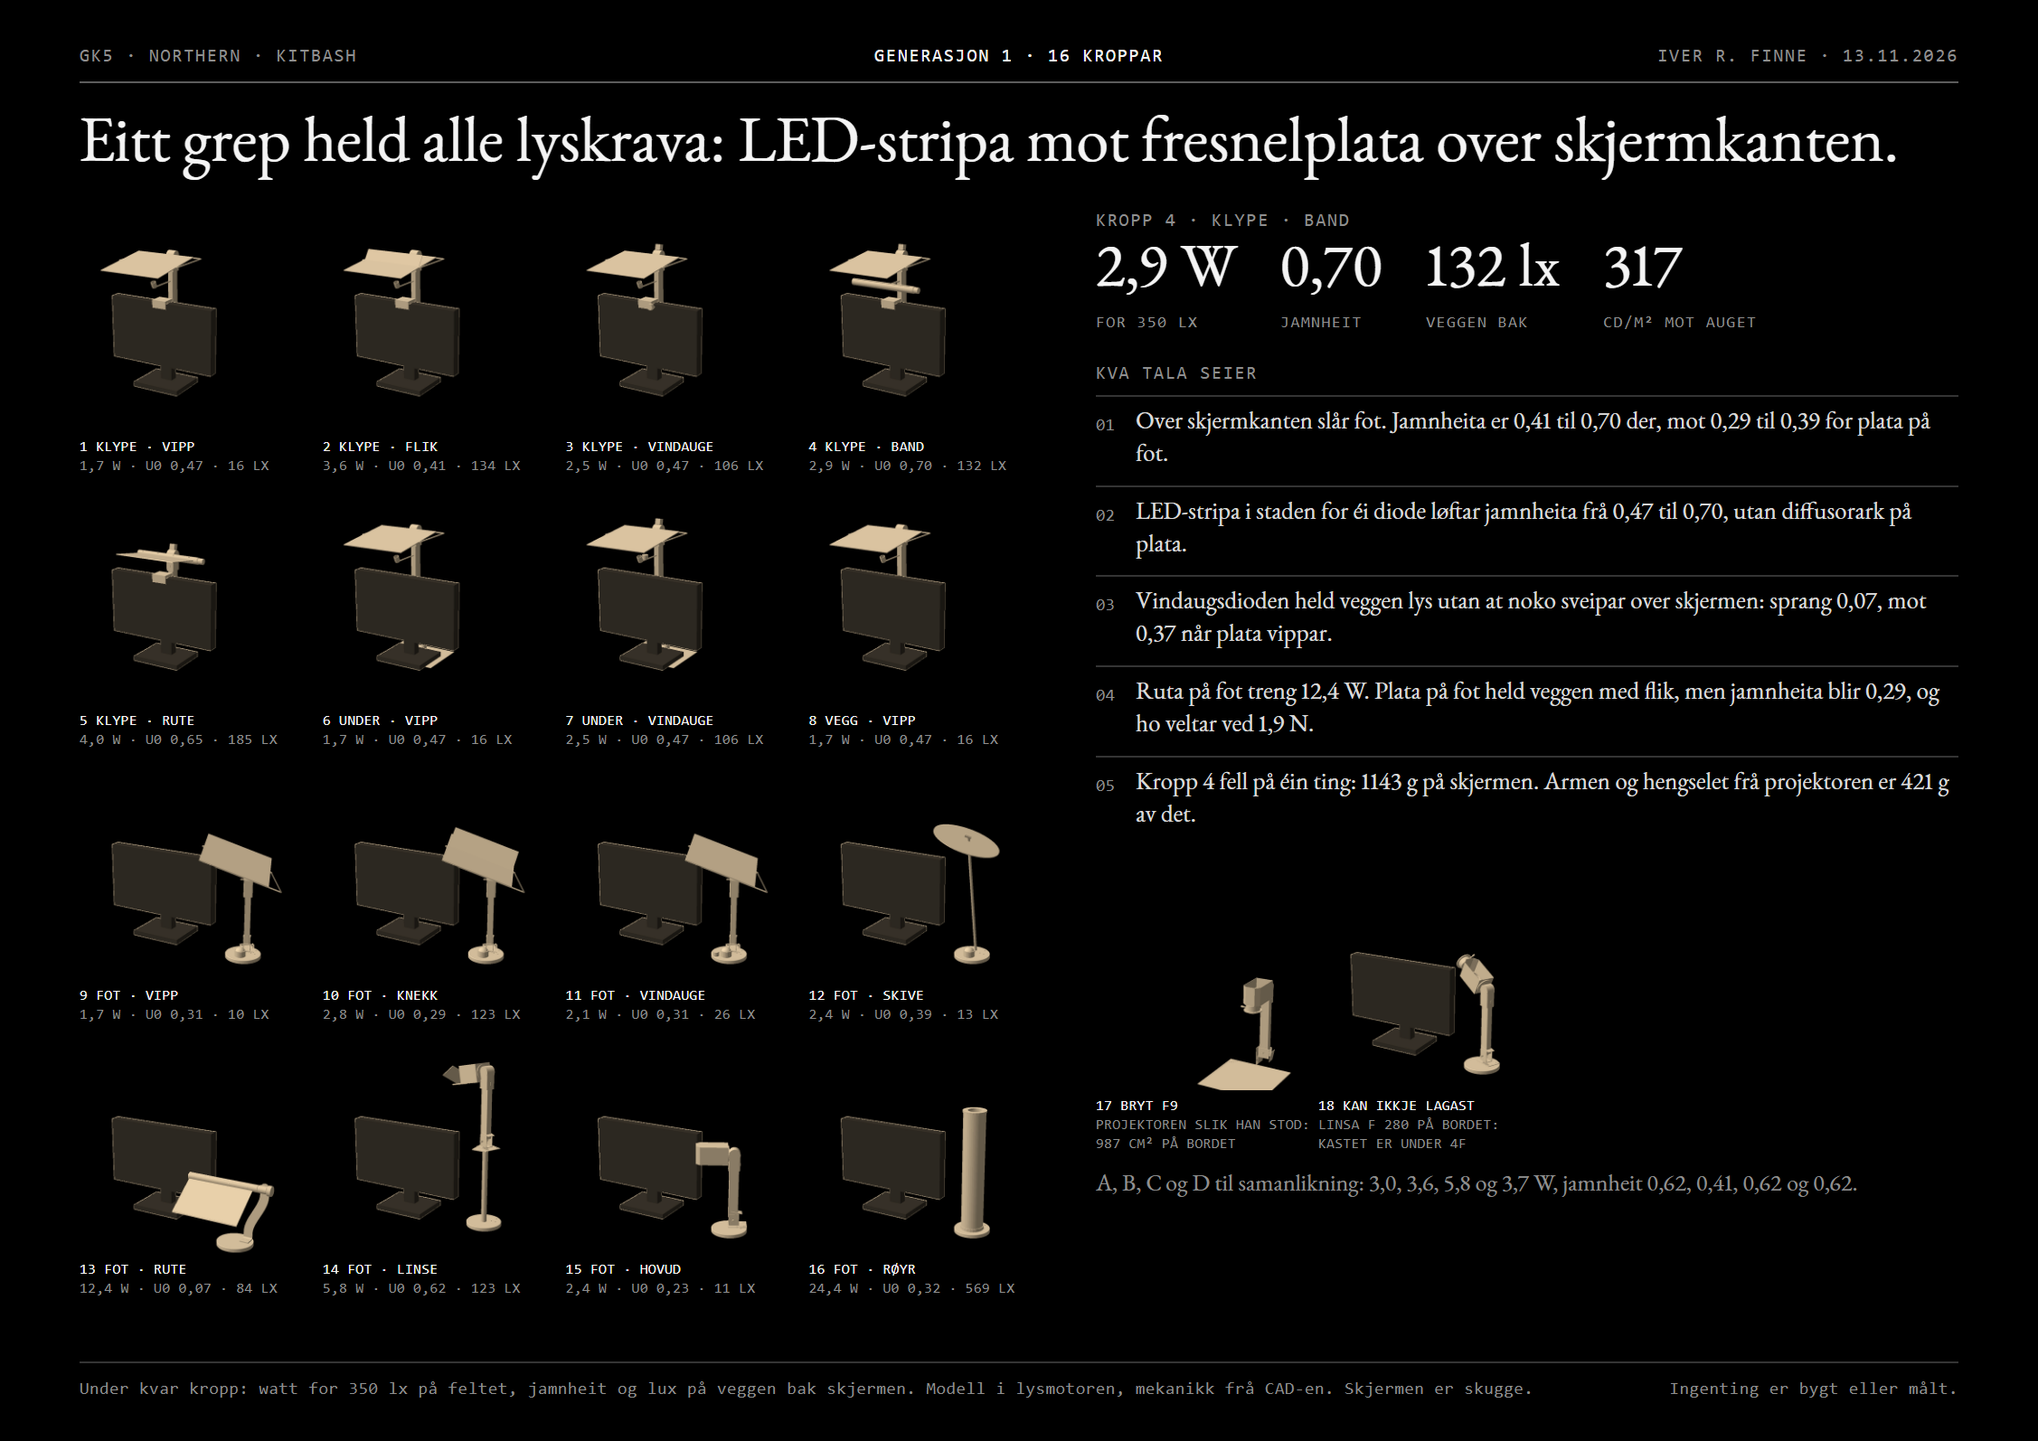
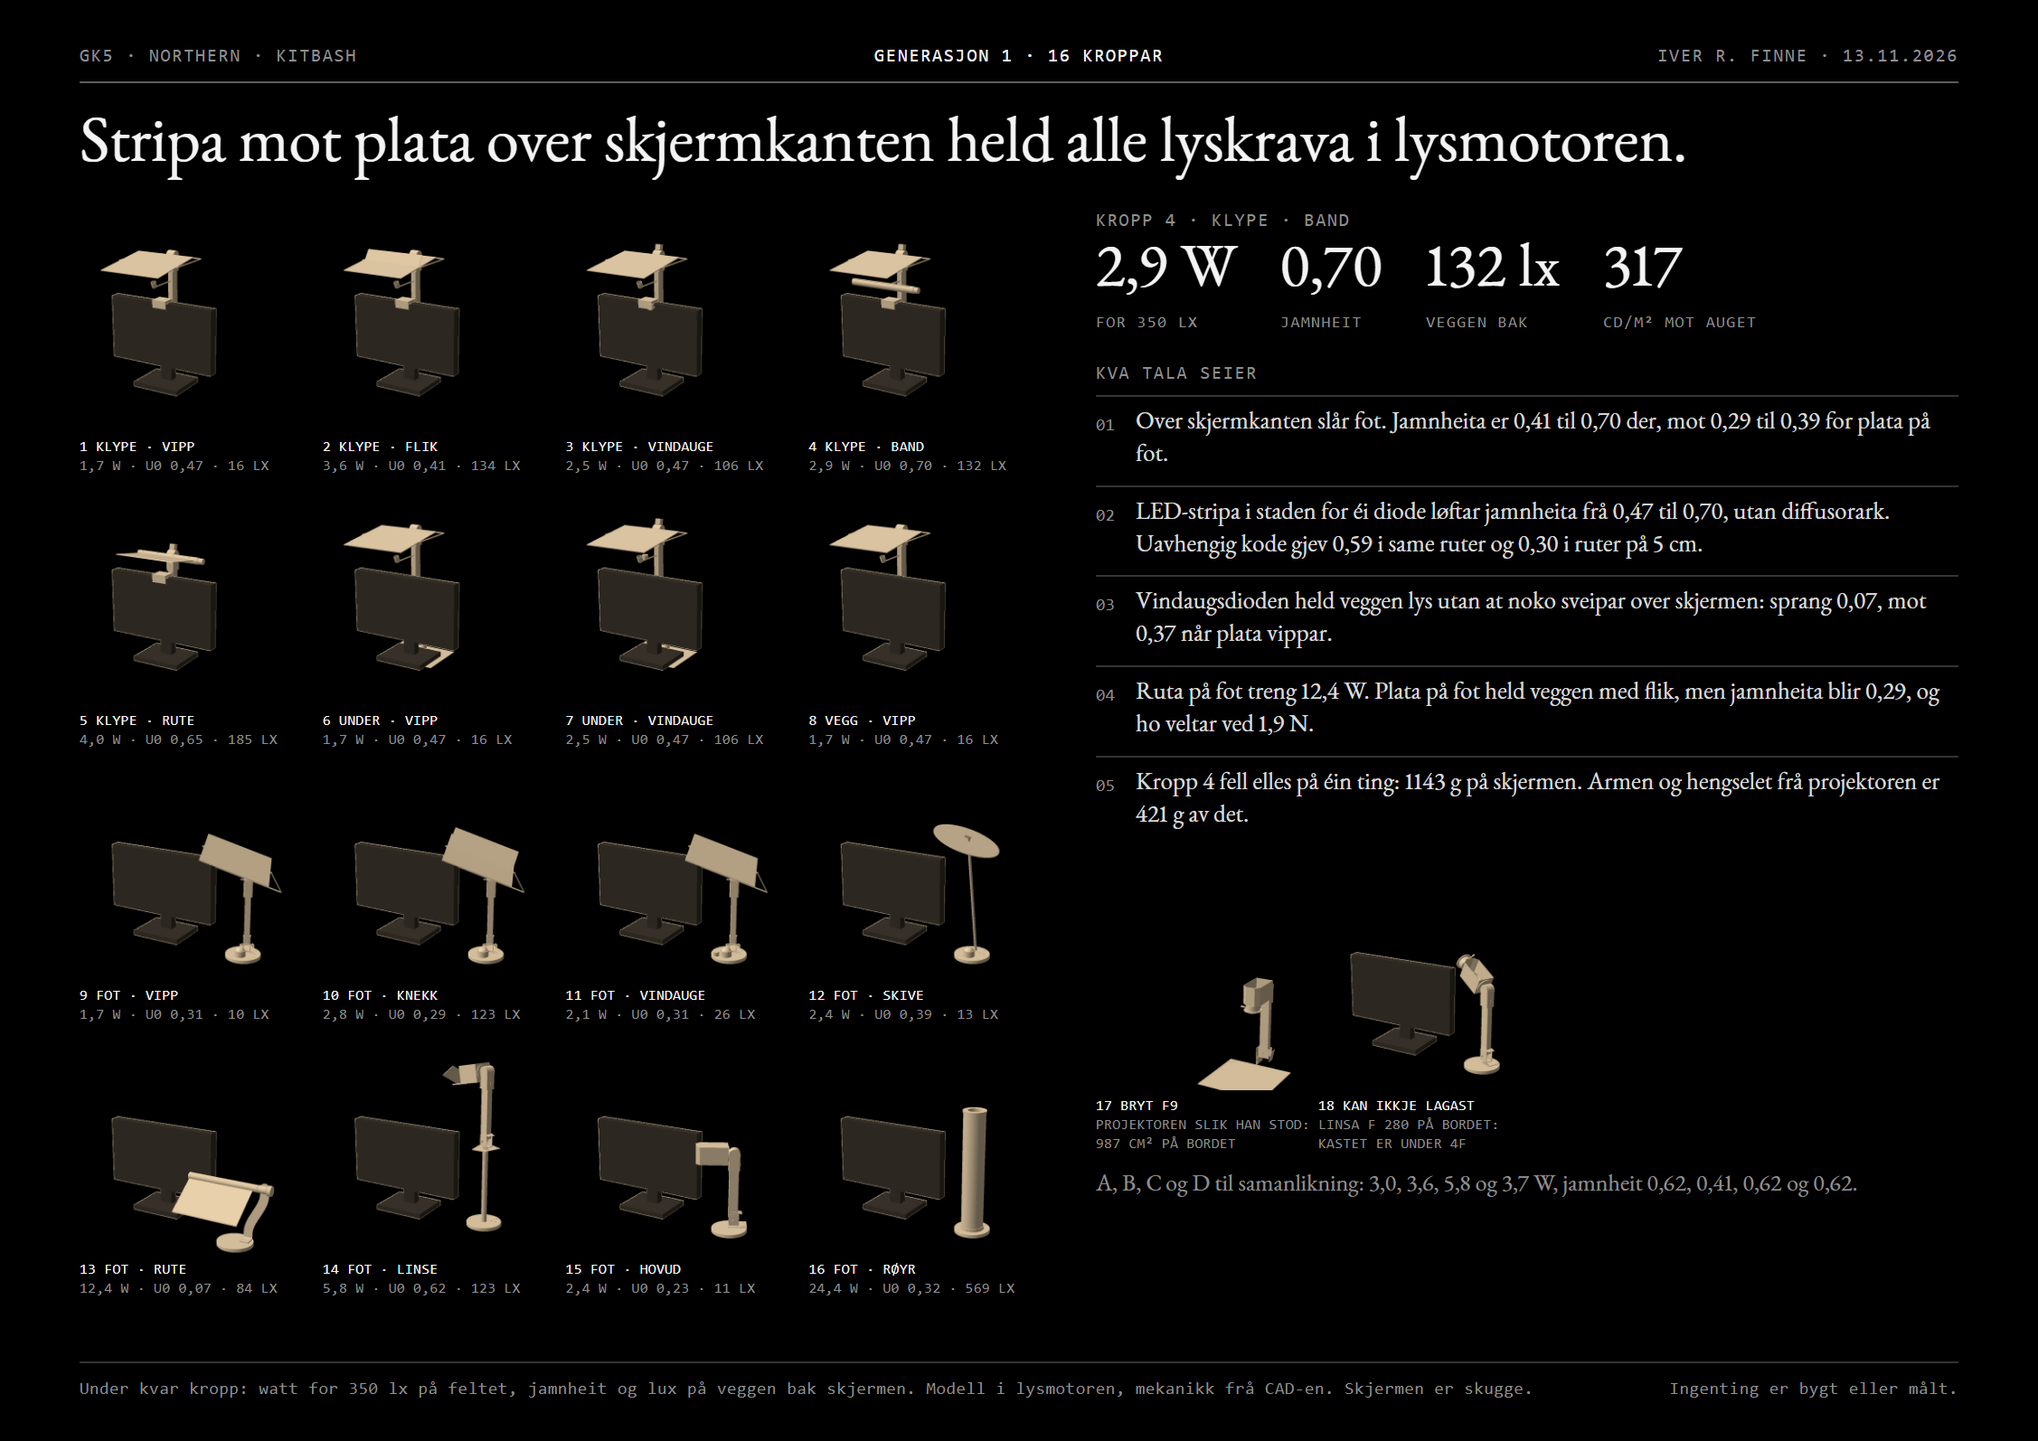
Kitbash: etterprøving av bandet med uavhengig kode, og presisering i ark, logg og val
Uavhengig strålesporing gjev jamnheit 0,59 i ruter på 10 cm (lysmotoren 0,70) og 0,30 i ruter på 5 cm.
Sikte 3 cm nærare brukaren gjev 0,61 og 0,48. Stripa på fot blir ei line.

diff --git a/modell/byggjesett/kitbash/ark-val.html b/modell/byggjesett/kitbash/ark-val.html
@@ -1,0 +1,65 @@
+<!doctype html>
+<html lang="nn">
+<head>
+<meta charset="utf-8">
+<title>Kitbash · val</title>
+<link rel="stylesheet" href="../../../leveransar/01_fase1_v2/felles.css">
+<style>
+  .studie img { display: block; width: 1039px; height: auto; }
+  .studie figcaption { display: flex; justify-content: space-between; }
+  .tre { display: grid; grid-template-columns: repeat(3, minmax(0, 1fr)); column-gap: 24px; margin-top: 12px; }
+  .val figure img { width: 120px; height: 120px; display: block; }
+  .val { display: grid; grid-template-columns: 120px minmax(0, 1fr); column-gap: 12px; align-items: start; }
+  .val figure { grid-row: span 4; }
+  .val .tal { font-size: 11.5px; color: var(--graa); margin: 0 0 4px; }
+  .val .liten { font-size: 12.5px; line-height: 1.3; margin: 0 0 4px; }
+  .val .m2 { font: 400 8.5px/1.35 var(--mono); letter-spacing: 0.04em; text-transform: uppercase; color: var(--graa); margin: 0; }
+</style>
+</head>
+<body>
+<div class="side">
+  <header class="topp">
+    <span>GK5 · Northern · kitbash</span>
+    <span>Valet (a), (b), (c)</span>
+    <span>Iver R. Finne · 13.11.2026</span>
+  </header>
+
+  <h1 class="tittel">Lyset er funne. Valet er kven som ber plata: skjermen, bordet eller foten.</h1>
+
+  <main class="innhald" style="display: block;">
+    <figure class="studie">
+      <img src="studie-over-band-vindauge-q30.png" alt="">
+      <figcaption><span><b>Stemning</b> · 1,25 W · 2200 K · vindauget på veggen 143 lx</span><span><b>Arbeid</b> · 2,9 W · 3000 K · feltet 350 lx · veggen bak 132 lx</span></figcaption>
+    </figure>
+    <div class="tre">
+      <div class="val">
+        <figure><img src="flis/04.png" alt=""></figure>
+        <p class="stor" style="margin: 6px 0 4px;">(a) Klype · band</p>
+        <p class="tal"><em>293 lm · 2,9 W · 3000 K · 350 lx · U0 0,70</em></p>
+        <p class="liten">På skjermkanten. Held alle lyskrava, og bordet er fritt.</p>
+        <p class="m2">1143 g på skjermen · knotten 65 cm unna</p>
+      </div>
+      <div class="val">
+        <figure><img src="flis/19.png" alt=""></figure>
+        <p class="stor" style="margin: 6px 0 4px;">(b) Under · band</p>
+        <p class="tal"><em>293 lm · 2,9 W · 3000 K · 350 lx · U0 0,70</em></p>
+        <p class="liten">Same lys. Står sjølv på ei stålplate under skjermfoten.</p>
+        <p class="m2">2260 g · toler 7,0 N dytt · 690 cm² under skjermen</p>
+      </div>
+      <div class="val">
+        <figure><img src="flis/10.png" alt=""></figure>
+        <p class="stor" style="margin: 6px 0 4px;">(c) Fot · knekk</p>
+        <p class="tal"><em>283 lm · 2,8 W · 3000 K · 350 lx · U0 0,29</em></p>
+        <p class="liten">Ruta på fot med spegelrute. Held veggen, men feltet blir ujamt.</p>
+        <p class="m2">1293 g · 196 cm² · veltar ved 1,9 N · auget 660 cd/m²</p>
+      </div>
+    </div>
+  </main>
+
+  <footer class="botn">
+    <span>Bileta er lysmotoren sitt rom for (a) og (b), same kamera og eksponering. Tala er modell, skalerte til 350 lx på feltet.</span>
+    <span>Designaren vel.</span>
+  </footer>
+</div>
+</body>
+</html>

diff --git a/modell/byggjesett/kitbash/ark-brett.html b/modell/byggjesett/kitbash/ark-brett.html
@@ -26,7 +26,7 @@
     <span>Iver R. Finne · 13.11.2026</span>
   </header>
 
-  <h1 class="tittel">Eitt grep held alle lyskrava: LED-stripa mot fresnelplata over skjermkanten.</h1>
+  <h1 class="tittel">Stripa mot plata over skjermkanten held alle lyskrava i lysmotoren.</h1>
 
   <main class="innhald" style="display: block;">
     <div class="to">
@@ -59,10 +59,10 @@
         </div>
         <p class="etikett">Kva tala seier</p>
         <div class="punkt"><span class="nr">01</span><p>Over skjermkanten slår fot. Jamnheita er 0,41 til 0,70 der, mot 0,29 til 0,39 for plata på fot.</p></div>
-        <div class="punkt"><span class="nr">02</span><p>LED-stripa i staden for éi diode løftar jamnheita frå 0,47 til 0,70, utan diffusorark på plata.</p></div>
+        <div class="punkt"><span class="nr">02</span><p>LED-stripa i staden for éi diode løftar jamnheita frå 0,47 til 0,70, utan diffusorark. Uavhengig kode gjev 0,59 i same ruter og 0,30 i ruter på 5 cm.</p></div>
         <div class="punkt"><span class="nr">03</span><p>Vindaugsdioden held veggen lys utan at noko sveipar over skjermen: sprang 0,07, mot 0,37 når plata vippar.</p></div>
         <div class="punkt"><span class="nr">04</span><p>Ruta på fot treng 12,4 W. Plata på fot held veggen med flik, men jamnheita blir 0,29, og ho veltar ved 1,9 N.</p></div>
-        <div class="punkt"><span class="nr">05</span><p>Kropp 4 fell på éin ting: 1143 g på skjermen. Armen og hengselet frå projektoren er 421 g av det.</p></div>
+        <div class="punkt"><span class="nr">05</span><p>Kropp 4 fell elles på éin ting: 1143 g på skjermen. Armen og hengselet frå projektoren er 421 g av det.</p></div>
         <figure class="kontroll">
           <img src="velt_umogleg.png" alt="">
           <figcaption><span><b>17 Bryt F9</b><br>projektoren slik han stod:<br>987 cm² på bordet</span><span><b>18 Kan ikkje lagast</b><br>linsa f 280 på bordet:<br>kastet er under 4f</span></figcaption>

diff --git a/modell/byggjesett/kitbash/ark.py b/modell/byggjesett/kitbash/ark.py
@@ -63,7 +63,7 @@ def ark_brett(R, L):
 <div class="side">
 {TOPP % 'Generasjon 1 · 16 kroppar'}
 
-  <h1 class="tittel">Eitt grep held alle lyskrava: LED-stripa mot fresnelplata over skjermkanten.</h1>
+  <h1 class="tittel">Stripa mot plata over skjermkanten held alle lyskrava i lysmotoren.</h1>
 
   <main class="innhald" style="display: block;">
     <div class="to">
@@ -81,10 +81,10 @@ def ark_brett(R, L):
         </div>
         <p class="etikett">Kva tala seier</p>
         <div class="punkt"><span class="nr">01</span><p>Over skjermkanten slår fot. Jamnheita er 0,41 til {k(r4['U0'], 2)} der, mot 0,29 til 0,39 for plata på fot.</p></div>
-        <div class="punkt"><span class="nr">02</span><p>LED-stripa i staden for éi diode løftar jamnheita frå {k(d1['jamnheit'], 2)} til {k(r4['U0'], 2)}, utan diffusorark på plata.</p></div>
+        <div class="punkt"><span class="nr">02</span><p>LED-stripa i staden for éi diode løftar jamnheita frå {k(d1['jamnheit'], 2)} til {k(r4['U0'], 2)}, utan diffusorark. Uavhengig kode gjev 0,59 i same ruter og 0,30 i ruter på 5 cm.</p></div>
         <div class="punkt"><span class="nr">03</span><p>Vindaugsdioden held veggen lys utan at noko sveipar over skjermen: sprang {k(r4['sprang'], 2)}, mot {k(v['sprang'], 2)} når plata vippar.</p></div>
         <div class="punkt"><span class="nr">04</span><p>Ruta på fot treng {k(R[12]['W350'], 1)} W. Plata på fot held veggen med flik, men jamnheita blir {k(R[9]['U0'], 2)}, og ho veltar ved {k(R[9]['dytt_N'], 1)} N.</p></div>
-        <div class="punkt"><span class="nr">05</span><p>Kropp 4 fell på éin ting: {k(r4['masse_g'], 0)} g på skjermen. Armen og hengselet frå projektoren er 421 g av det.</p></div>
+        <div class="punkt"><span class="nr">05</span><p>Kropp 4 fell elles på éin ting: {k(r4['masse_g'], 0)} g på skjermen. Armen og hengselet frå projektoren er 421 g av det.</p></div>
         <figure class="kontroll">
           <img src="velt_umogleg.png" alt="">
           <figcaption><span><b>17 Bryt F9</b><br>projektoren slik han stod:<br>987 cm² på bordet</span><span><b>18 Kan ikkje lagast</b><br>linsa f 280 på bordet:<br>kastet er under 4f</span></figcaption>

diff --git a/modell/byggjesett/kitbash/logg.md b/modell/byggjesett/kitbash/logg.md
@@ -1,6 +1,6 @@
 # Kitbash generasjon 1 · logg
 
-Dato: 13.11.2026, kl. 20.10 til 21.15. Motoren er montasje: kvar kropp er sett saman av delar som alt finst som CAD. Koden er `kitbash.py`, `lys.py` og `samle.py`. Tala ligg i `tal.json`, `tal.csv` og `tal.md`, bileta i `brett.png`, `brett-merkt.png` og `velt_umogleg.png`. Ingenting er målt. Måla på delane er anslått frå foto, massane er rekna frå volum, og lyset er modell.
+Dato: 13.11.2026, kl. 20.10 til 21.20. Motoren er montasje: kvar kropp er sett saman av delar som alt finst som CAD. Koden er `kitbash.py`, `lys.py` og `samle.py`. Tala ligg i `tal.json`, `tal.csv` og `tal.md`, bileta i `brett.png`, `brett-merkt.png` og `velt_umogleg.png`. Ingenting er målt. Måla på delane er anslått frå foto, massane er rekna frå volum, og lyset er modell.
 
 ## Kvifor ein ny motor
 
@@ -34,11 +34,31 @@ Fire støtter × lysorgan. Rad 1 og 2 har armen ståande bak skjermen: klype på
 - **Lyset mot tabellen for A, B, C og D:** B (over-flik) 3,6 W og jamnheit 0,41, C (fot-linse) 5,8 W og 0,62, A 3,0 W og 0,62, D 3,7 W og 0,62. Det er same tal som i `konsept/tre/00-tre-konsept.md` og `tal-D.json`.
 - **Bandet med tre kjelder i staden for fem** gjev jamnheit 0,65 mot 0,69. Resultatet heng altså ikkje på kor mange punkt stripa er delt i.
 
+## Etterprøving med uavhengig kode
+
+`etterproving.py` sporar strålar med numpy utan lysmotoren: ei lambertsk line under ein ideell fresnelspegel, berre direkte lys på bordet, same plassar. Tala står i `etterproving.json`.
+
+| | Jamnheit, ruter 10 cm | Ruter 5 cm | Lux per lumen frå stripa | Lysmotoren |
+| --- | --- | --- | --- | --- |
+| Stripe 24 cm, rein plate | 0,59 | 0,30 | 2,0 | 0,69 (bandet åleine), 0,70 med vindauge |
+| Stripe 12 cm | 0,15 | 0,01 | 2,7 | 0,34 |
+| Éi diode, rein plate | 0,01 | 0,00 | 2,9 | |
+| Éi diode, ark 12° | 0,42 | 0,29 | 2,2 | 0,47 |
+| Stripe 30 cm | 0,68 | 0,29 | 1,6 | |
+| Stripa på fot, 42 cm under plata | 0,00 | 0,00 | 1,8 | 0,02 |
+
+- **Hovudfunnet held, talet flyttar seg.** Stripa mot rein plate er jamnare enn dioden med ark i begge kodane. Men jamnheita er 0,59 her mot 0,70 i lysmotoren, altså på referansen 0,6 og ikkje trygt over.
+- **Rutenettet avgjer.** I ruter på 5 cm fell jamnheita til 0,30. Lyskartet viser kvifor: dei fremste 5 cm av feltet, nærast brukaren, får ein firedel av midten. Formsøket fann det same for D (0,62 grovt, 0,51 fint).
+- **Sikte 3 cm nærare brukaren** (y 0,22 i staden for 0,25) gjev 0,61 og 0,48. Det er første justering for lampa som blir bygd. Ho er ikkje køyrd i lysmotoren.
+- **Dioden med rein plate er ikkje ein flekk.** Ho gjev eit felt på om lag 0,6 m med lys rand og mørke kantar. Jamnheita 0,01 kjem av kantrutene.
+- Lux per lumen: 2,0 her mot 1,7 i lysmotoren. Lysmotoren har brønn og sprut i kjelda, og denne koden har ingen tap utanom spegelen (0,85).
+
 ## Mønster i tala
 
 - **Over skjermkanten slår fot.** Plata over skjermkanten gjev jamnheit 0,41 til 0,70. Plata på fot gjev 0,29 til 0,39, fordi lyset kjem skrått inn frå sida.
 - **Stripa er jamnheita.** Éi diode mot plata krev diffusorark (12°) og gjev 0,47. LED-stripa langs skjermkanten gjev 0,69 mot rein plate, og luminansen mot auget fell frå 227 til 70 cd/m², fordi arket er borte. Dette er første fresnelgrepet over referansen 0,6. Fresnel-familien stoppa på 0,56 og konkluderte med at jamnheit og luminans er same knapp. Stripa løyser dei frå kvarandre.
 - **Å dele er betre enn å flytte.** Når plata vippar frå veggen til feltet, er spranget 0,37 til 0,42, og veggen bak skjermen får 14 til 16 lx i arbeid. Med plata fast og vindaugsdioden til veggen er spranget 0,07 til 0,11, og veggen får 106 til 132 lx.
+- **Stripa må liggje innanfor brennvidda.** På skjermkanten ligg ho 12 cm under plata (f = 18,7 cm), og kvart punkt gjev eit vidt felt. På fot, 42 cm under, avbildar plata stripa som ei line: jamnheit 0,02. Stripa på 12 cm i staden for 24 gjev 0,34.
 - **Ruta på fot er stemning.** Kropp 13 treng 12,4 W for 350 lx og har jamnheit 0,07. Same svar som formsøket.
 - **Ruta over skjermkanten (D) lyser på skjermen.** 163 lx på skjermflata, 0,47 av feltet.
 - **Hovudet og røyret er det busette.** Hovudet som skjerm blendar det låge auget (5211 cd/m²) og er ein dimmar. Røyret av prismearket er ei rein stemningslampe.
@@ -70,3 +90,5 @@ Fire støtter × lysorgan. Rad 1 og 2 har armen ståande bak skjermen: klype på
 - 20.40 lys: dei elleve raske grepa, 1 til 11 s kvar.
 - 20.42 til 20.50 lys: over-band-vindauge 151 s, over-band-vindauge-q30 150 s, over-vindauge-q30 3 s, over-band-3 79 s.
 - 20.47 brett (104 s): kropp 4 med vindaugsdiode og knott.
+- 20.50 til 20.57 lys: over-band-kort 260 s, fot-band 191 s.
+- 21.00 etterprøving (40 s): sju oppsett. 21.02 sikte, stripelengd og ark (16 oppsett, 25 s).

diff --git a/modell/byggjesett/kitbash/val.md b/modell/byggjesett/kitbash/val.md
@@ -4,7 +4,9 @@ Dato: 13.11.2026. Tala er modell (lysmotoren, skalert til 350 lx på feltet) og 
 
 ## Svaret frå søket
 
-Lyset bur over skjermkanten. LED-stripa på skjermkanten lyser opp i den reine fresnelplata, som legg eit band av lys over feltet. Ei diode bak ei maske teiknar vindauget på veggen, og knotten flyttar watten mellom dei. Av seksten kroppar er dette den einaste som held alle lyskrava i modellen. A, B, C og D gjer det heller ikkje.
+Lyset bur over skjermkanten. LED-stripa på skjermkanten lyser opp i den reine fresnelplata, som legg eit band av lys over feltet. Ei diode bak ei maske teiknar vindauget på veggen, og knotten flyttar watten mellom dei. Av seksten kroppar er dette den einaste som held alle lyskrava i lysmotoren. A, B, C og D gjer det heller ikkje.
+
+Etterprøvinga med uavhengig kode (`etterproving.py`) held funnet, men ikkje talet: jamnheita er 0,59 i ruter på 10 cm, mot 0,70 i lysmotoren, og 0,30 i ruter på 5 cm, fordi dei fremste 5 cm av feltet er svake. Med plata sikta 3 cm nærare brukaren blir det 0,61 og 0,48. Les 0,70 som «på referansen», ikkje som trygt over.
 
 Valet som står att, er kven som ber plata og stripa: skjermen, bordet eller foten.
 
@@ -46,11 +48,12 @@ Prøv bandet før noko blir bygt. Det er éin dag med papp, og det avgjer om (a)
 
 Bygg B Over-modellen (plata i ei pappramme 20 cm over skjermkanten og 9 cm framfor skjermplanet, sjå `konsept/tre/00-tre-konsept.md`). Byt telefonlykta med ei LED-stripe i ei renne av svart papp på skjermkanten, 12 cm under plata. Ingen diffusorark. Stripa er den same som står på handlelista til ruta på fot (COB, 5 V). Mål lux i 6 × 4 ruter på feltet.
 
-1. Stripa 24 cm, rein plate: lågaste rute delt på snittet over 0,6 (modell 0,69).
-2. Same stripe dekt til 12 cm: under 0,4 (modell 0,34).
-3. Stripa flytta til 42 cm under plata: ei lys line på bordet, under 0,1 (modell 0,02).
+1. Stripa 24 cm, rein plate: lågaste rute delt på snittet mellom 0,55 og 0,70 i ruter på 10 cm (lysmotoren 0,69, uavhengig kode 0,59). Den svakaste ruta ligg i framkanten av feltet.
+2. Same stripe dekt til 12 cm: under 0,4 (lysmotoren 0,34, uavhengig kode 0,15).
+3. Stripa flytta til 42 cm under plata: ei lys line på bordet, under 0,1 (begge kodane 0,00 til 0,02).
 4. Frå stolen, med auget 25 til 60 cm over bordet, er plata mørk: ingen lys flate i henne.
-5. Midt på feltet om lag 1,2 lx per lumen frå stripa (350 lx av 290 lm).
+5. Snittet på feltet er 1,7 til 2,0 lx per lumen frå stripa.
+6. Vippar du plata så midten av lyset flyttar seg 3 cm mot deg, blir framkanten jamnare (uavhengig kode: 0,61, og 0,48 i ruter på 5 cm).
 
 Held ikkje 1 og 4, fell (a) og (b), og B Over med flik og diffusorark er att (3,6 W, jamnheit 0,41).
 

diff --git a/modell/byggjesett/kitbash/LES_MEG.md b/modell/byggjesett/kitbash/LES_MEG.md
@@ -11,6 +11,8 @@ Dette er søket og valet. Dei fire lampene som blir bygde i djupna (printdelar, 
 | `kitbash.py` | Motoren: settet (`sett`, `cad`, `ny`), støttene (`bak_skjermen`, `paa_fot`), organa (`plate`, `boyel`, `diode`, `vindaugsmodul`, `ruta_gruppe`, `hovud`) og dei 18 kroppane i `KROPPAR` og `KONTROLL`. |
 | `lys.py` | Lysgrepa `g(t) -> (lys, kropp)` for kvar kropp, rekna med `ruta.rekn` (same nøklar som `tre.rekn`). |
 | `samle.py` | Set mekanikk og lys saman og prøver kvar kropp mot krava. |
+| `etterproving.py` | Bandet rekna ein gong til med uavhengig kode (strålesporing i numpy), utan lysmotoren. |
+| `studie.py`, `ark.py` | Lysstudiar (stemning og arbeid) for kroppane i valet, og dei to arka i husstilen. |
 | `brett.png`, `velt_umogleg.png`, `flis/` | Brettet 4 × 4 i husstilen, dei to kontrollkroppane, og kvar flis for seg. |
 | `brett-merkt.png` | Same brett med nummer, namn og tre tal per kropp. |
 | `tal_mek.json`, `tal_lys.json`, `tal_brett.json` | Råtala. `tal.json`, `tal.csv` og `tal.md` er dei samla. |
